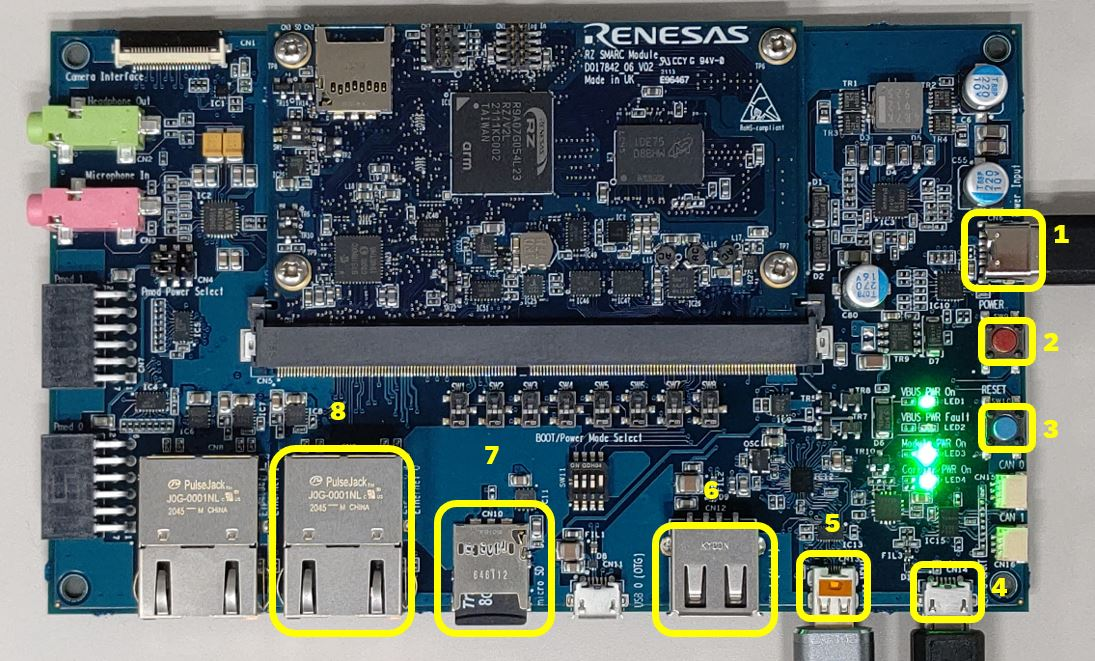
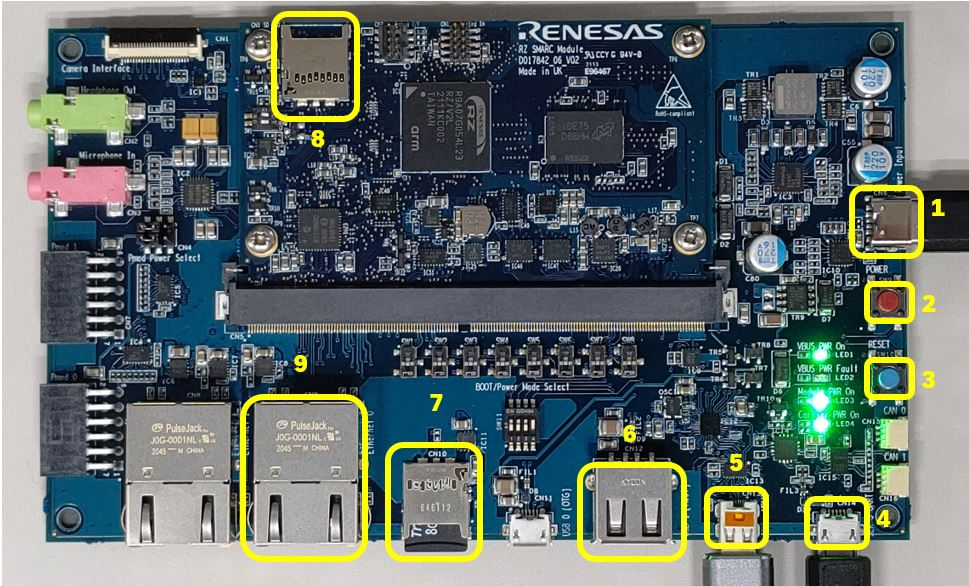
Q2 application added
eSD port added

eSD port added: diagram modified

diff --git a/README.md b/README.md
@@ -37,8 +37,9 @@ The number information is present as:
 4. Serial connection port for connecting Host PC and the board
 5. Micro HDMI port to connect the HDMI Display to the board
 6. USB port to connect the USB Hub/USB device to the board
-7. SD Card Port
-8. Ethernet port  
+7. SD Card Port for eMMC Bootloader
+8. SD Card Port for eSD Bootloader
+9. Ethernet port  
 
 #### Board Setup
 - Connect power supply to the board at terminal `1`.
@@ -46,7 +47,7 @@ The number information is present as:
 - Connect micro HDMI cable to terminal `5` and the other end of the cable to the display
 - Connect USB Hub at terminal `6`
     - Connect USB Camera, USB Mouse, USB Keyboard to the USB Hub
-- Connect SD Card at terminal `7` (required for SD card file system)
+- Connect SD Card at terminal `7` for for eMMC Bootloader or terminal 8 for eSD Bootloader (required for SD card file system)
 - Connect ethernet at terminal `8` (optional)
 
 #### Additional Requirements
@@ -73,18 +74,36 @@ The sample applications already developed for RZ/V2L Evaluation Board Kit are li
 
 ### 1. Footfall Counter 
 
-This sample application [Footfall Counter](./Q01_footfall_counter) will count the number of persons entering the certain boundaries. There is added functionality of calculation time taken for people on the certain region of interest.\
+The [Footfall Counter](./Q01_footfall_counter) application will count the number of persons entering the certain boundaries. There is added functionality of calculation time taken for people on the certain region of interest.\
 Both the boundary line and the area of interest are decided by the user and can be set inside the config file.
 
 ### 2. Face Authentication
 
-This sample application [Face Authentication](./Q02_face_authentication) will recognize the face of the person and verify the same with images stored in the database.\
+The [Face Authentication](./Q02_face_authentication) application will recognize the face of the person and verify the same with images stored in the database.\
 This application could be used for passport verification at the airport.
 
 ### 3. Smart Parking Solutions
 
-This sample application [Smart Parking](./Q03_smart_parking) will detect the available parking slots from the real time camera feed using computer vision advanced algorithms.\
+The [Smart Parking](./Q03_smart_parking) application will detect the available parking slots from the real time camera feed using computer vision advanced algorithms.\
 The application could be used to get the available parking slots information from the certain parking area in real time.
+
+### 4. Fish Classification 
+The [Fish Classification](./Q04_fish_classification) application will classify the species of fishes using either image, video or camera feed.\
+The application can be used at fish markets or super market to identify the species of the fish. 
+
+### 5. Suspicious Activity Recognition
+The [Suspicious activity classification](./Q05_suspicious_activity) application will take a camera or video input and classify whether the activity is suspicious or non-suspicious.
+Some user-config like `FRAME_INTERVAL`, `BUFFER_SIZE`, etc can be passed through command line during execution. The detail explanation is provided in the application `readme.md`.\
+This application could be used for security purpose in government or corporate buildings. 
+
+### 6. Expiry Date Detection 
+The [Expiry Date Detection](./Q06_expiry_date_detection) application will extract the expiry date from the image or the camera feed and can show the remaining days for the product expiry.\
+The application could be used at medical or grocery store to extract the expiry date information on the product with less manual intervention.
+
+### 7. Plant Disease Classification 
+The [Plant disease classification](./Q07_plant_disease_classification) application will classify the diseases for certain plants.\
+This application could be used for farm monitoring and plant disease prevention and cure.
+
 
 ## Operating the sample application
 - Each sample application folder have their respective `readme.md` file to modify and run the sample application.
